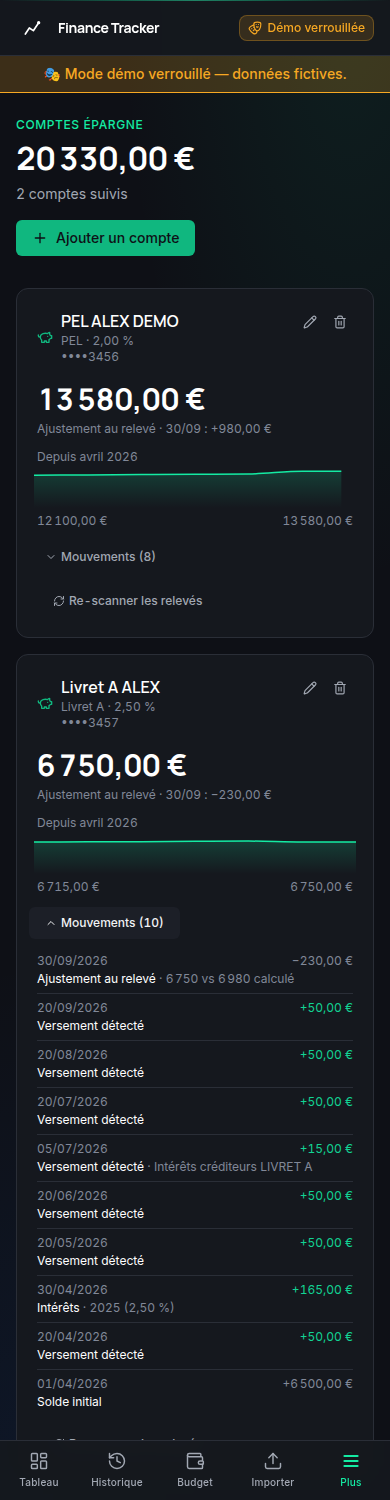
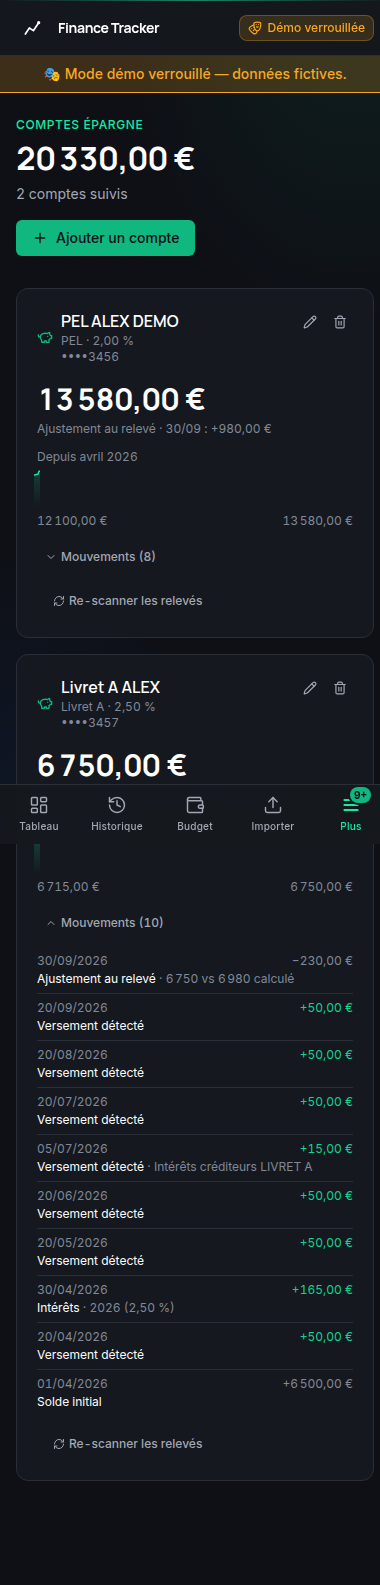
docs(L131): Nouveauté « l'année des intérêts suit leur date », captures de la Nouveauté L130 refaites

diff --git a/frontend/public/nouveautes-data/index.html b/frontend/public/nouveautes-data/index.html
@@ -20,8 +20,15 @@ code { font-size: 13px; padding: 1px 4px; border-radius: 4px; background: var(--
 </style>
 </head>
 <body>
-<header><h1>finance-tracker — nouveautés</h1><p class="meta">Généré le 2026-10-23 12:04 par cadence</p></header>
+<header><h1>finance-tracker — nouveautés</h1><p class="meta">Généré le 2026-10-23 12:49 par cadence</p></header>
 <main>
+<article id="2026-10-23-demo-l-annee-des-interets-suit-leur-date">
+  <h2>Démo : l'année des intérêts suit leur date</h2>
+  <p class="meta"><time datetime="2026-10-23">2026-10-23</time> · L131</p>
+  <p>Dans la démo, la note de l'intérêt du Livret A porte maintenant la même année que sa date. Avant, selon le mois où l'on ouvrait la démo, on pouvait lire « 30/04/2026 · Intérêts · 2025 (2,50 %) » : la date avançait avec le temps mais pas l'année de la note. Elle affiche désormais « 30/04/2026 · Intérêts · 2026 (2,50 %) ».</p>
+  <a href="captures/demo-interets-annee-1440.png"><img src="captures/demo-interets-annee-1440.png" alt="Liste des mouvements du Livret A de la démo : l'intérêt de 165,00 € du 30/04/2026 est noté « Intérêts · 2026 (2,50 %) »" loading="lazy"></a>
+  <a href="captures/demo-interets-annee-390.png"><img src="captures/demo-interets-annee-390.png" alt="Même liste au téléphone : date du 30/04/2026 et note « 2026 (2,50 %) » concordent" loading="lazy"></a>
+</article>
 <article id="2026-10-23-demo-epargne-avec-interets-et-versements-annotes">
   <h2>Démo : épargne avec intérêts et versements annotés</h2>
   <p class="meta"><time datetime="2026-10-23">2026-10-23</time> · L130</p>

diff --git a/docs/nouveautes/2026-10-23-demo-l-annee-des-interets-suit-leur-date.md b/docs/nouveautes/2026-10-23-demo-l-annee-des-interets-suit-leur-date.md
@@ -1,0 +1,12 @@
+---
+title: "Démo : l'année des intérêts suit leur date"
+date: 2026-10-23
+created: 2026-10-23T12:48+02:00
+lots: [L131]
+captures:
+  - { file: captures/demo-interets-annee-1440.png, alt: "Liste des mouvements du Livret A de la démo : l'intérêt de 165,00 € du 30/04/2026 est noté « Intérêts · 2026 (2,50 %) »" }
+  - { file: captures/demo-interets-annee-390.png, alt: "Même liste au téléphone : date du 30/04/2026 et note « 2026 (2,50 %) » concordent" }
+# une capture peut dire ce qu'elle montre : captures: [{ file: captures/x.png, alt: "texte alternatif" }]
+# nocapture: raison, quand une capture n'a pas de sens
+---
+Dans la démo, la note de l'intérêt du Livret A porte maintenant la même année que sa date. Avant, selon le mois où l'on ouvrait la démo, on pouvait lire « 30/04/2026 · Intérêts · 2025 (2,50 %) » : la date avançait avec le temps mais pas l'année de la note. Elle affiche désormais « 30/04/2026 · Intérêts · 2026 (2,50 %) ».
